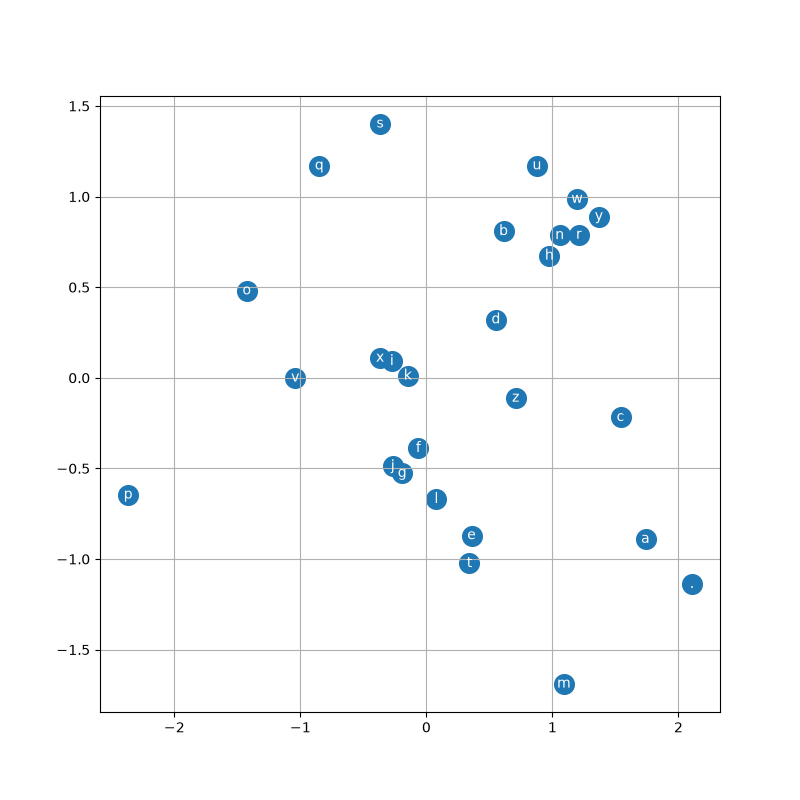
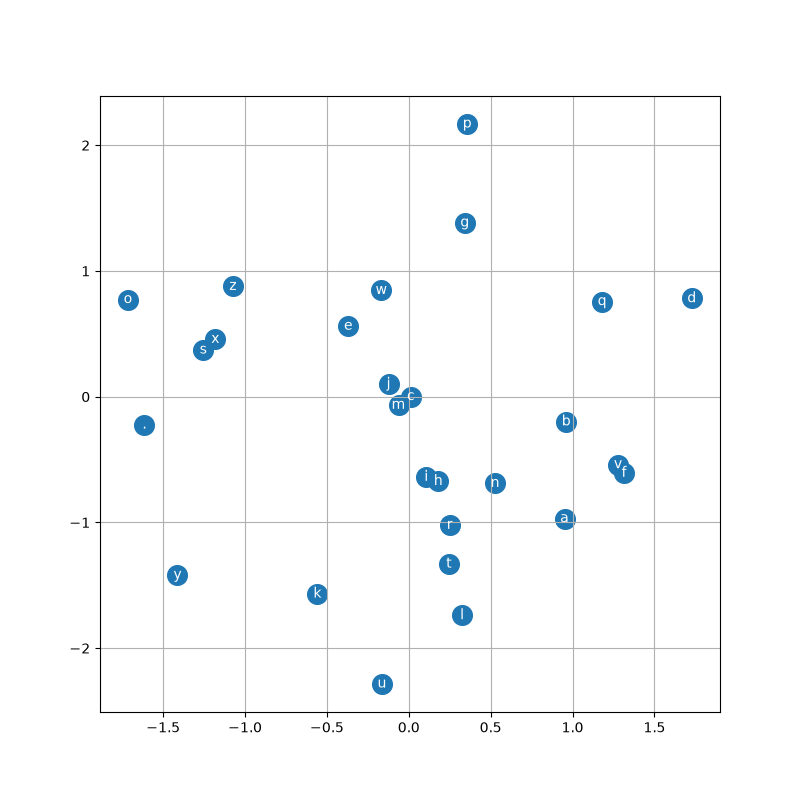
More dimensions for character embeddings, random sampling from probabilities, more epochs, changing learning rate.

diff --git a/makeMoreMLPCleaned.py b/makeMoreMLPCleaned.py
@@ -1,7 +1,7 @@
 import math
 import random
 import numpy as np
-import matplotlib.pyplot as plt 
+import matplotlib.pyplot as plt # THIS ISN't FUNCTIONAL, IT's JUST TEMPORARY
 import time
 words = open('names.txt', 'r').read().splitlines()
 
@@ -83,6 +83,9 @@ class Value:
         out._backward = _backward
         return out
     
+    def __len__(self):
+        return len(self.data)
+    
     def tanh(self):
         x=self.data
         t = np.tanh(x)
@@ -161,21 +164,17 @@ def trunc(number, digits):
     return math.trunc(number * stepper) / stepper
 
 # defining weights
-W1 = Value(np.random.randn(6, 300))  # embedding_size * block_size -> hidden
-b1 = Value(np.zeros(300))
-W2 = Value(np.random.randn(300, 27))  # hidden -> logits
+W1 = Value(np.random.randn(30, 200) * (5/3) / (30**0.5))  # embedding_size * block_size -> hidden
+b1 = Value(np.zeros(200))
+W2 = Value(np.random.randn(200, 27) * 0.01)  # hidden -> logits
 b2 = Value(np.zeros(27))
-charEncodings = Value(np.random.randn(27,2))
+charEncodings = Value(np.random.randn(27,10)) #Increase to 10 dimensional embeddings
 
 parameters = [charEncodings, W1, b1, W2, b2] # for easy access during 
 
 stoi = {s:i for i,s in enumerate(sorted(list(set(''.join(words)))))}
 stoi['.']=26
 itos = {i:s for s,i in stoi.items()}
-
-lre = [i/333 - 3 for i in range(1000)]
-lrs = [10 ** lre[i] for i in range(1000)]
-lrs.reverse()
 
 blockSize = 3
 inputs, outputs = [],[]
@@ -198,7 +197,6 @@ devIn = inputs[n1:n2] # Development data (10%)
 devOut = outputs[n1:n2]
 testIn = inputs[n2:] #  Test data (10%)
 testOut = outputs[n2:]
-
 
 def forward(Value, cross_entropy, W1, b1, W2, b2, charEncodings, parameters, inputs, outputs, epoch=0):
     # Encode the inputs
@@ -231,8 +229,13 @@ def forward(Value, cross_entropy, W1, b1, W2, b2, charEncodings, parameters, inp
 
     loss.backward()
 
+    if epoch < 150000:
+        lr = -.1
+    else:
+        lr = -.01
+
     for p in parameters:
-        p.data += -0.1 * p.grad
+        p.data += lr * p.grad
         p.grad = np.zeros_like(p.data, dtype=float)
 
 def forwardNoTrain(Value, cross_entropy, W1, b1, W2, b2, charEncodings, parameters, inputs, outputs, epoch=0):
@@ -264,12 +267,19 @@ def forwardNoTrain(Value, cross_entropy, W1, b1, W2, b2, charEncodings, paramete
 
     return loss
 
-epochs = 30000
+epochs = 200000
 START_TIME = time.perf_counter()
 print(f"Started training Makemore ({epochs} epochs)")
+trainTemp = -1
+testTemp = -1
 for i in range(epochs):
-    train_loss = trunc(forwardNoTrain(Value, cross_entropy, W1, b1, W2, b2, charEncodings, parameters, trainIn, trainOut, i).data, 3)
-    test_loss  = trunc(forwardNoTrain(Value, cross_entropy, W1, b1, W2, b2, charEncodings, parameters, testIn,  testOut,  i).data, 3)
+    if (i%100==0):
+        train_loss = trunc(forwardNoTrain(Value, cross_entropy, W1, b1, W2, b2, charEncodings, parameters, trainIn, trainOut, i).data, 3)
+        test_loss  = trunc(forwardNoTrain(Value, cross_entropy, W1, b1, W2, b2, charEncodings, parameters, testIn,  testOut,  i).data, 3)
+        trainTemp, testTemp = train_loss, test_loss
+    else:
+        train_loss = trainTemp
+        test_loss = trainTemp
     elapsed_time = time.perf_counter() - START_TIME
 
     line1 = f"Epoch: {i+1}/{epochs} {prog(i, epochs)}"
@@ -330,14 +340,14 @@ def predict():
         e = np.exp(logits.data)
         probs = e / e.sum(axis=1, keepdims=True)
         reverse = {v: k for k, v in stoi.items()} 
-        out += reverse[np.argmax(probs[0])]
+        out += reverse[np.random.choice(27, p=probs[0])]
         if out[-1] == '.':
             break
     
-    print("Final Word: " + out[3:-1] + "\n")
+    print(out[3:-1])
 
-predict()
-
+for i in range(20):
+    predict()
 
 # Plot the embeddings, save it to a file
 plt.figure(figsize=(8,8))
@@ -346,4 +356,4 @@ for i in range(27):
     plt.text(charEncodings.data[i,0], charEncodings.data[i,1], itos[i], ha="center", va="center", color="white")
 plt.grid("minor")
 plt.savefig("plots/embeddings.png")
-print("Image saved")
+# Embeddings are now pretty useless, since we're in 10 dimensions.